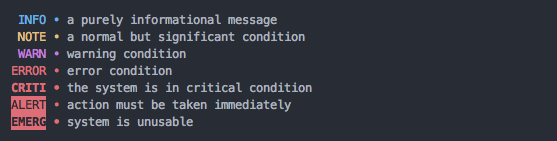
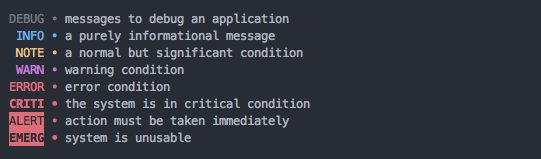
Added missing debug example

Changed region(s): [[0.0, 0.0851, 0.5915, 0.9362]]

diff --git a/README.md b/README.md
@@ -28,7 +28,7 @@ Usage
 
 ```js
 const { Log } = require('hiplog');
-const log = new Log(/* { ... } */);
+const log = new Log({ level: 'debug' });
 ```
 
 ```js
